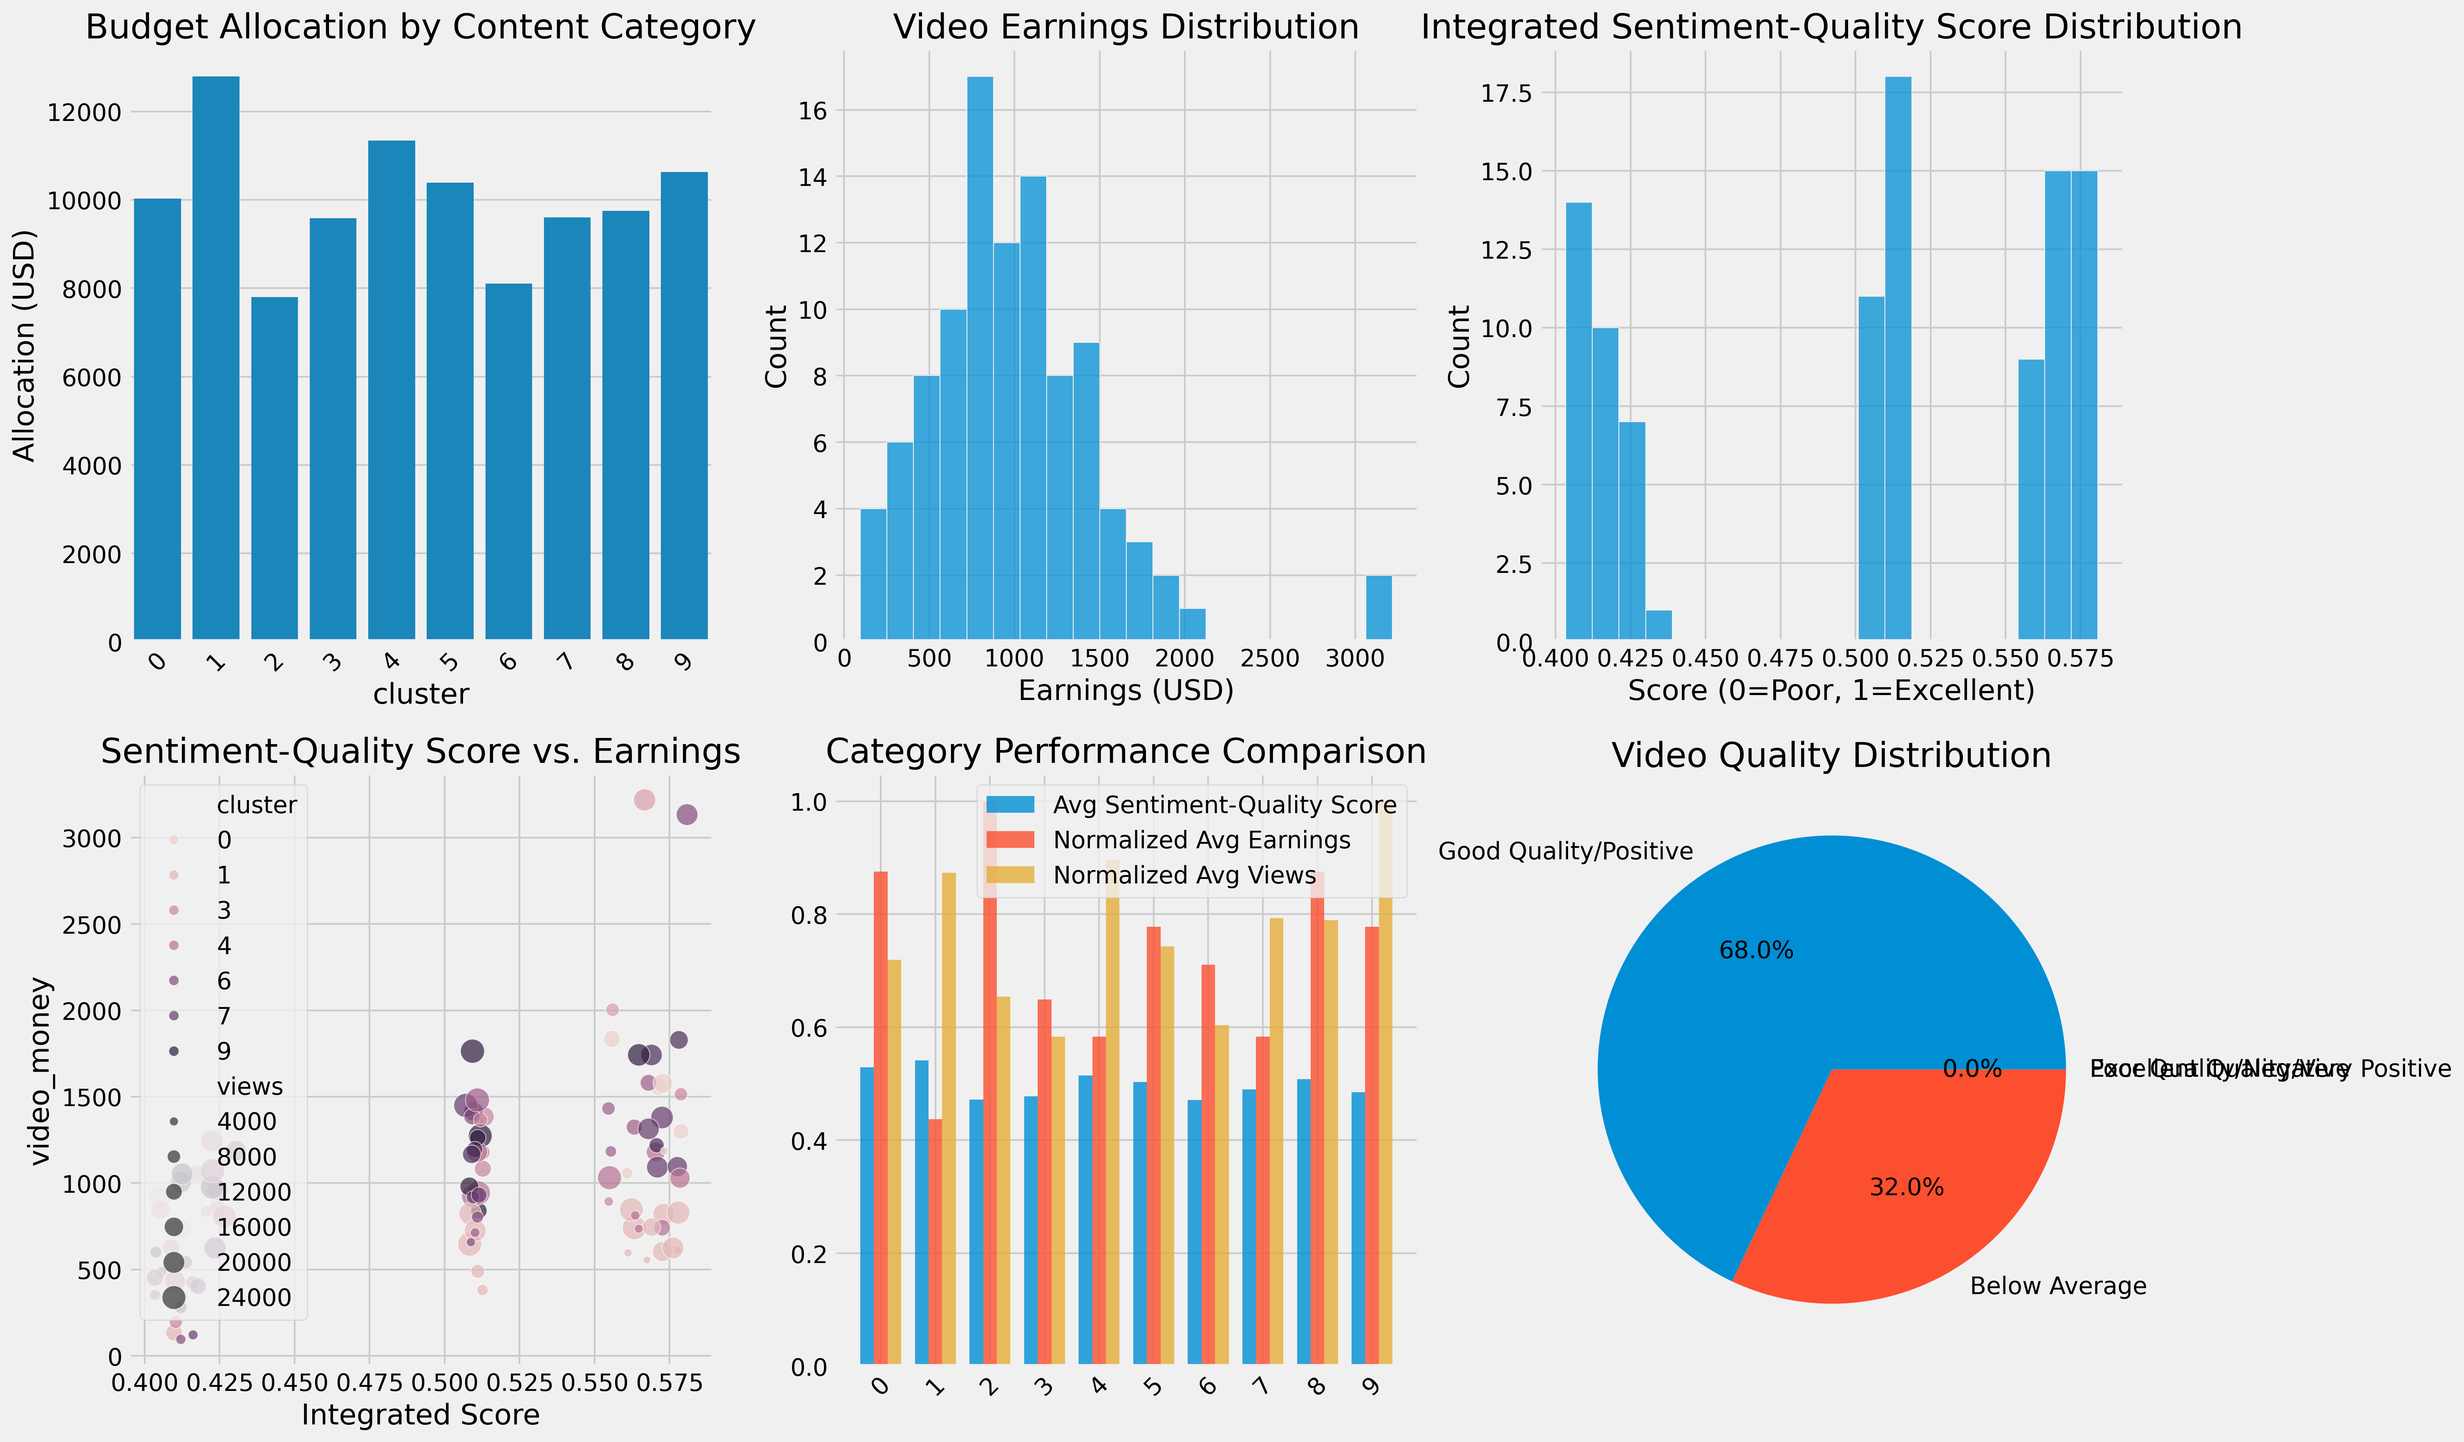
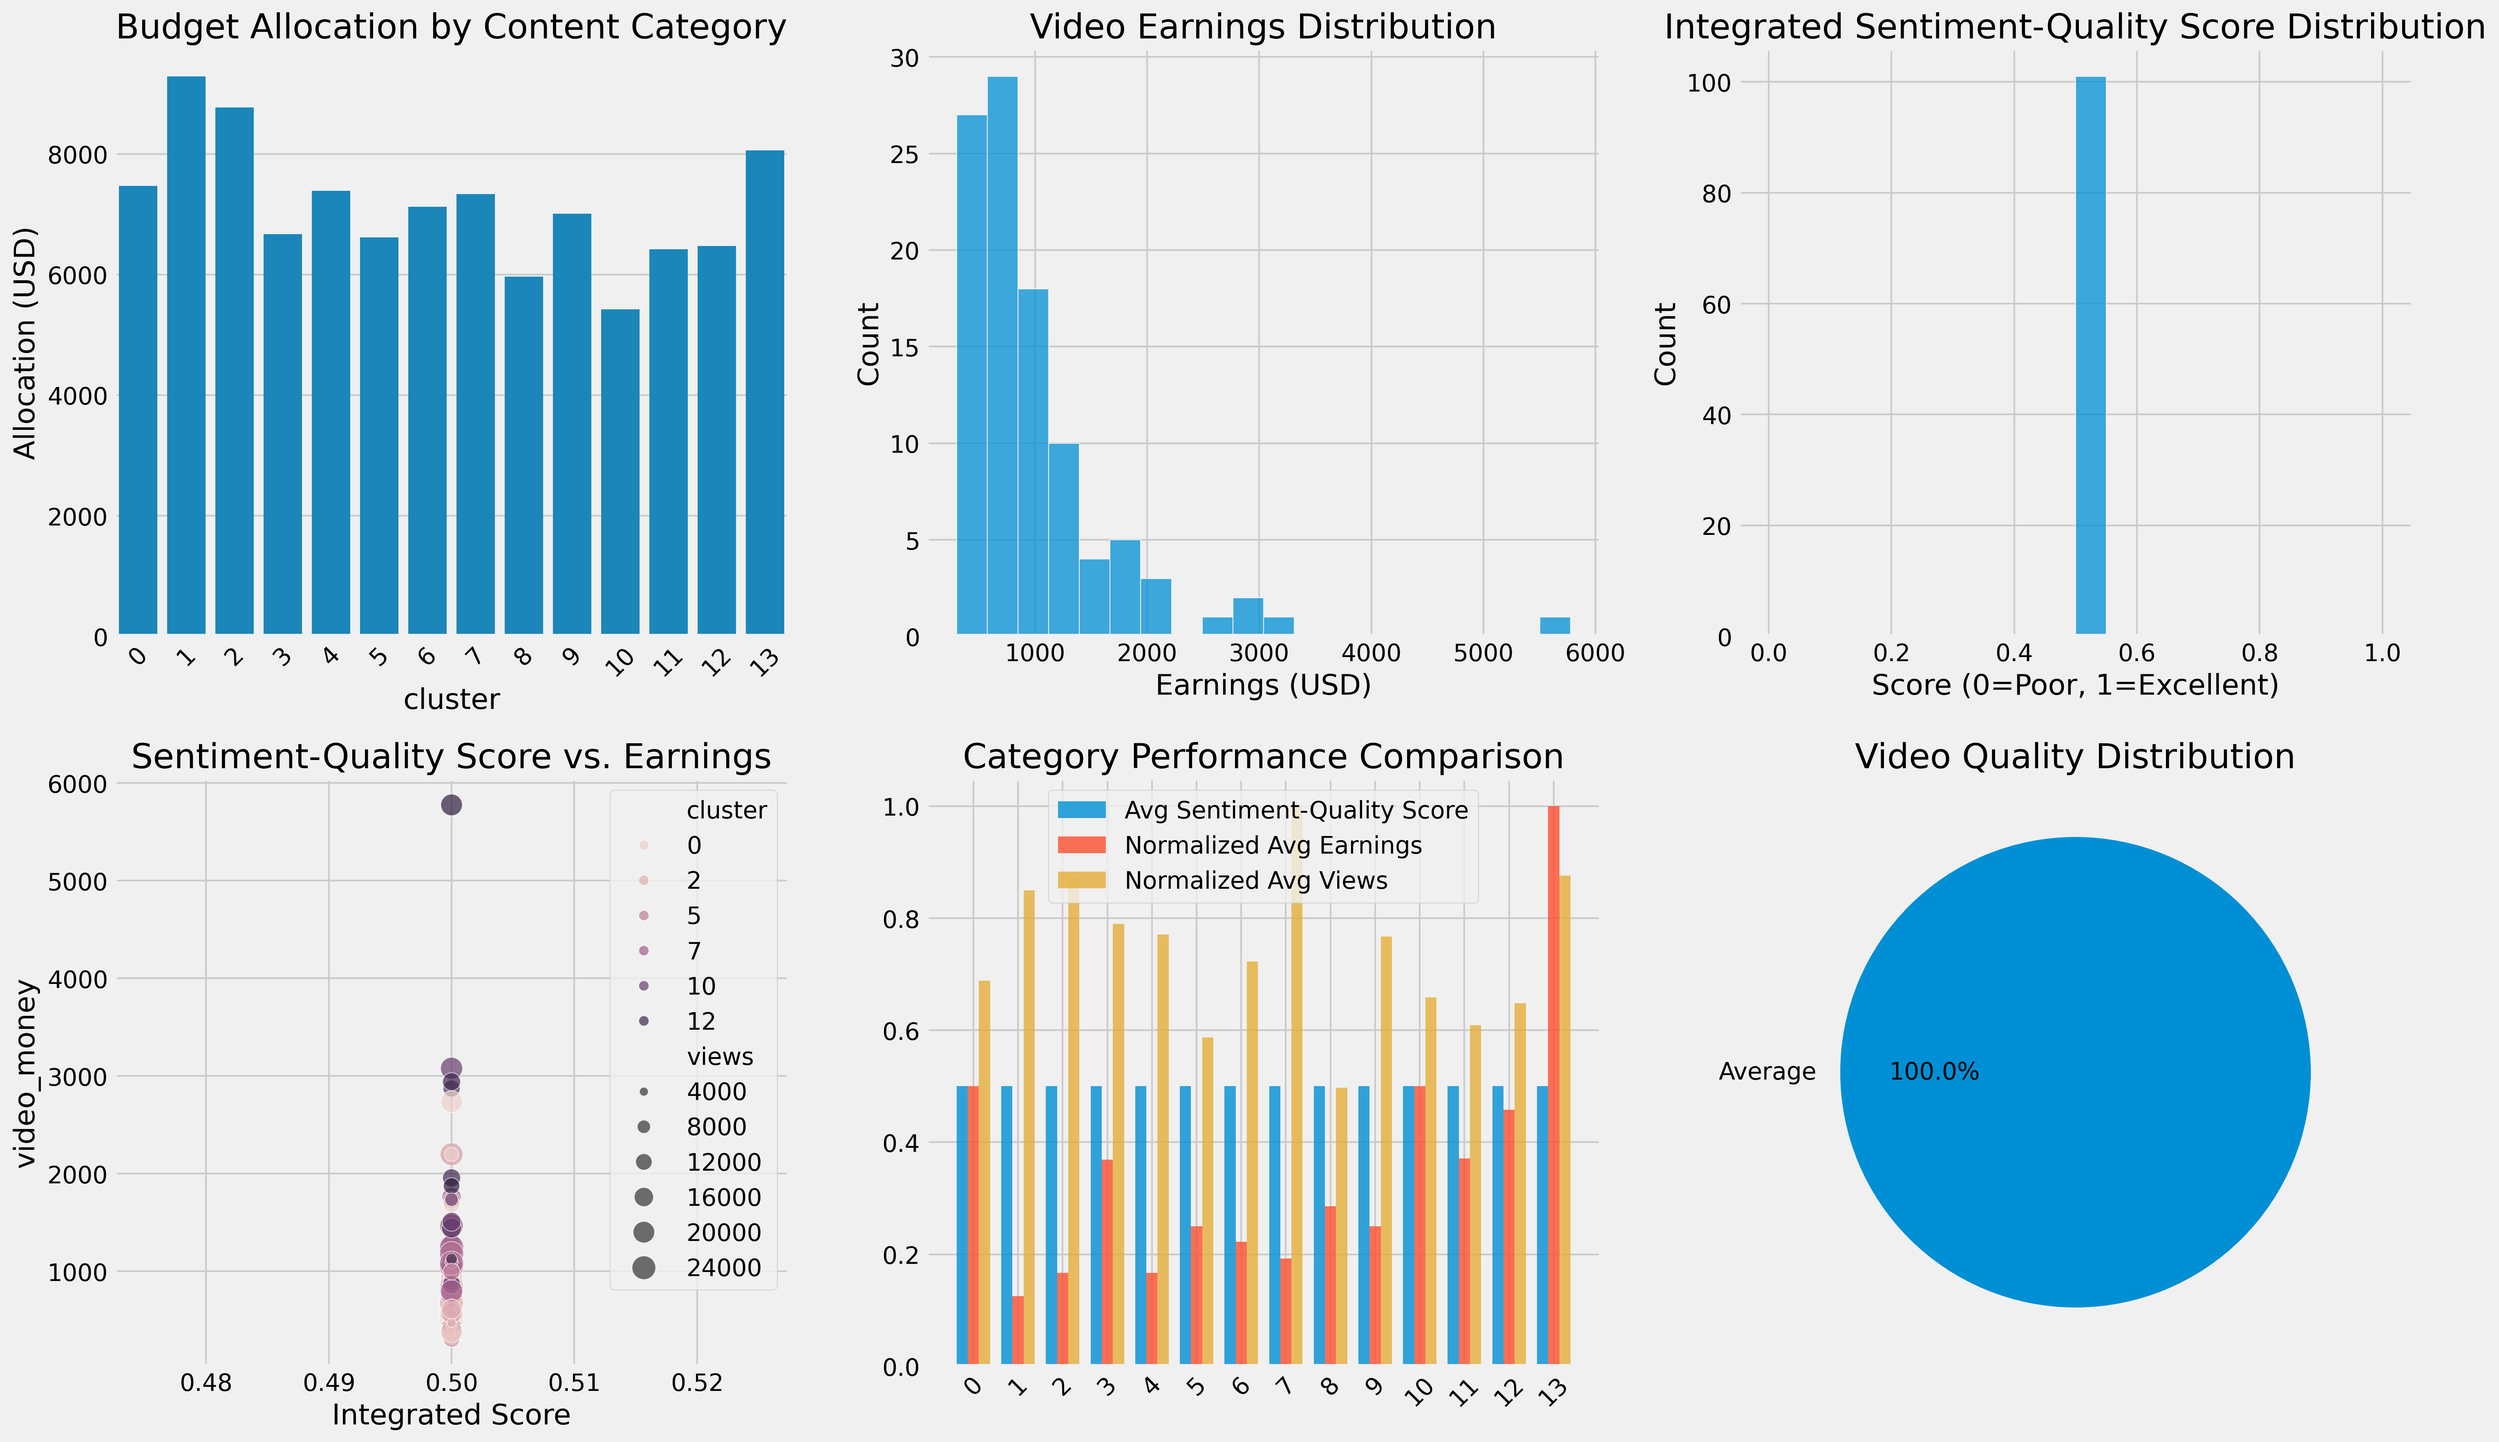
Analysing a single video

diff --git a/main.py b/main.py
@@ -1,9 +1,11 @@
 import pandas as pd
-import matplotlib.pyplot as plt
-import seaborn as sns
+import matplotlib
+matplotlib.use('Agg')
+import json
 import matplotlib.pyplot as plt
 import seaborn as sns
 from ST_tokenize import sort_category  
+from socialgood_quality import score_file
 from normalize import normalize_and_score, allocate_cluster_funds, filter_quality_content, apply_tiktok_specific_rules
 
 def analyze_video_sentiment_quality(df):
@@ -137,6 +139,14 @@ def analyze_video_sentiment_quality(df):
         # Fill missing values
         df['sentiment_quality_score'] = df['sentiment_quality_score'].fillna(0.5)
         df['analyzed_comments_count'] = df['analyzed_comments_count'].fillna(0)
+
+        min_score = df['sentiment_quality_score'].min()
+        max_score = df['sentiment_quality_score'].max()
+        if max_score > min_score:
+            df['quality_sentiment_multiplier'] = 0.9 + 0.2 * (df['sentiment_quality_score'] - min_score) / (max_score - min_score)
+        else:
+            df['quality_sentiment_multiplier'] = 1.0
+
         
         # Create interpretation categories
         df['score_interpretation'] = pd.cut(
@@ -160,7 +170,13 @@ def analyze_video_sentiment_quality(df):
         
         # Add the missing score_interpretation column
         df['score_interpretation'] = "Average"  # Default interpretation
-        
+
+        min_score = df['sentiment_quality_score'].min()
+        max_score = df['sentiment_quality_score'].max()
+        if max_score > min_score:
+            df['quality_sentiment_multiplier'] = 0.9 + 0.2 * (df['sentiment_quality_score'] - min_score) / (max_score - min_score)
+        else:
+            df['quality_sentiment_multiplier'] = 1.0
         return df
 
 def create_visualizations(df_final, cluster_allocations):
@@ -234,14 +250,26 @@ def create_visualizations(df_final, cluster_allocations):
     return fig
 
 def main():
-    print("🚀 Starting TikTok Profit Sharing with Integrated Sentiment-Quality Analysis...")
-    
+    print("🚀 Starting TikTok Profit Sharing with Integrated Sentiment-Quality Analysis...") 
+
     # Load data
     print("📂 Loading data...")
     df = pd.read_csv('full_video_dataset_with_engagement.csv')
-    # df = df.head(50)  # Uncomment to test with first 50 videos
     print(f"Loaded {len(df)} videos")
-    
+
+    with open("to_insert.json", "r", encoding="utf-8") as f:
+        data = json.load(f)
+
+    # If it's a single object (dict), wrap in a list so pandas can handle it
+    if isinstance(data, dict):
+        data = [data]
+
+    # 3. Convert JSON records to a DataFrame
+    new_df = pd.DataFrame(data)
+
+    # 4. Append to your existing DataFrame
+    df = pd.concat([df, new_df], ignore_index=True)
+
     # Cluster videos by content similarity
     print("🔍 Clustering videos by content similarity...")
     df_clustered = sort_category(df)
@@ -249,11 +277,15 @@ def main():
     
     # Apply integrated sentiment-quality analysis (replaces separate sentiment analysis)
     print("🏆 Analyzing videos with integrated sentiment+quality model...")
-    df_analyzed = analyze_video_sentiment_quality(df_clustered)
+    df_analyzed_1 = analyze_video_sentiment_quality(df_clustered)
+
+    # Apply integrated sentiment-quality analysis (replaces separate sentiment analysis)
+    print("🏆 Analyzing videos with societal-value model...")
+    df_analyzed_2 = score_file(df_analyzed_1)
     
     # Filter for quality content using the integrated score
     print("🏆 Filtering for above-average content...")
-    df_filtered = filter_quality_content(df_analyzed)
+    df_filtered = filter_quality_content(df_analyzed_2)
     
     # Enhanced normalization and scoring
     print("📊 Computing scores and normalizing metrics...")
@@ -310,6 +342,10 @@ def main():
     
     print("✅ Analysis complete!")
     print("📊 Generated: integrated_sentiment_quality_analysis.png")
+
+    print("How your video benchmarks amongst your peers:")
+    last_row = df_final.iloc[-1]
+    print(last_row[['video_id', 'quality_sentiment_multiplier', 'social_value_multiplier', 'video_money']])
     
     return df_final, cluster_allocations, fig
 

diff --git a/normalize.py b/normalize.py
@@ -110,19 +110,24 @@ def filter_quality_content(df, cluster_column='cluster', threshold_multiplier=1.
             std = cluster_data[metric].std() if cluster_data[metric].std() > 0 else 1
             z_scores[metric] = (cluster_data[metric] - mean) / std
         
-        # Weights emphasizing the integrated score
+        # Weights emphasizing viewer retention and engagement
         weights = {
             'views': 0.20,
-            'likes': 0.15, 
-            'shares': 0.15, 
-            'viewer_retention_percentage': 0.20,
-            'sentiment_quality_score': 0.30  # Highest weight on integrated score
+            'likes': 0.20,
+            'shares': 0.20,
+            'viewer_retention_percentage': 0.40
         }
-        
+
         composite_score = pd.Series(0, index=cluster_data.index)
         for m in available_metrics:
-            composite_score += z_scores[m] * weights.get(m, 0.1)
-        
+            composite_score += z_scores[m] * weights.get(m, 0.0)
+
+        # Apply multipliers
+        if 'quality_sentiment_multiplier' in cluster_data.columns:
+            composite_score *= cluster_data['quality_sentiment_multiplier']
+        if 'social_value_multiplier' in cluster_data.columns:
+            composite_score *= cluster_data['social_value_multiplier']
+
         quality_threshold = 0.0 * threshold_multiplier
         df.loc[cluster_mask, 'quality_flag'] = composite_score > quality_threshold
     

diff --git a/socialgood_quality.py b/socialgood_quality.py
@@ -153,16 +153,13 @@ def score_captions(
 
 
 def score_file(
-    input_path,
+    input_df,
     text_col="subtitles",
     nli_model="facebook/bart-large-mnli",
     device=-1
 ):
 
-    if input_path.lower().endswith(".parquet"):
-        df = pd.read_parquet(input_path)
-    else:
-        df = pd.read_csv(input_path)
+    df = input_df
 
     if text_col not in df.columns:
         raise KeyError(f"Input file must contain column '{text_col}'")
@@ -198,12 +195,8 @@ def score_file(
     else:
         out["total_score"] = 0.5
 
-    out["multiplier"] = 0.9 + 0.2 * out["total_score"]
+    out["social_value_multiplier"] = 0.9 + 0.2 * out["total_score"]
 
     if "score_society_contributing" in out.columns:
         out = out.drop(columns=["score_society_contributing"])    
     return out
-
-if __name__ == "__main__":
-    out = score_file("full_video_dataset_with_comments_scored_per_comment.csv","subtitles")
-    print(out)

diff --git a/Senti_Analysis.py b/Senti_Analysis.py
@@ -690,7 +690,7 @@ def analyze_video_quality_sentiment(df):
         
         # Fill missing values
         df['quality_sentiment_score'] = df['quality_sentiment_score'].fillna(0.5)
-        
+
         print(f"✅ Quality+Sentiment analyzer successfully applied to videos")
         return df
         
